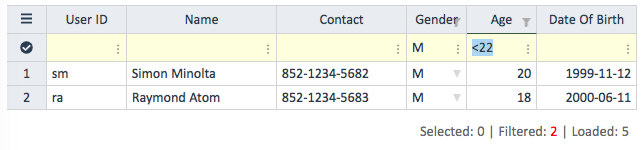
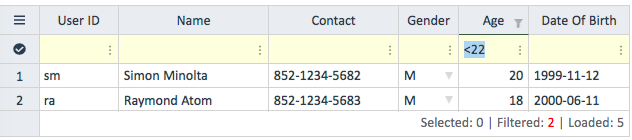
revise borders

Changed region(s): [[0.0, 0.0286, 1.0, 1.0], [0.0, 0.0857, 0.0601, 0.1714]]

diff --git a/VueExcelEditor.vue b/VueExcelEditor.vue
@@ -1,5 +1,5 @@
 <template>
-  <div>
+  <div style="display: inline-block; max-width: 100%">
     <div class="component-content">
       <div ref="tableContent"
            class="table-content"
@@ -22,9 +22,9 @@
             <!--col class="first-col">
             <col v-for="item in nFields" :key="`col-${item}`" style="width: 100px"-->
           </colgroup>
-          <thead class="thead-light text-center">
+          <thead class="center-text">
             <tr>
-              <th class="text-center first-col tl-setting"
+              <th class="center-text first-col tl-setting"
                   :class="{hide: noNumCol}"
                   :style="{left: calCellLeft + 'px', top: calCellTop + 'px'}"
                   @mousedown.left="settingClick">
@@ -49,7 +49,7 @@
               </th>
             </tr>
             <tr :class="{hide: !filterRow}">
-              <td class="text-center first-col tl-filter"
+              <td class="center-text first-col tl-filter"
                   :class="{hide: noNumCol}"
                   :style="{left: calCellLeft + 'px', top: calCellTop2 + 'px'}"
                   @click="selectAllClick">
@@ -69,7 +69,7 @@
                 :pos="rowPos"
                 :class="{select: typeof selected[pageTop + rowPos] !== 'undefined'}"
                 :style="rowStyle(record)">
-              <td class="text-center first-col"
+              <td class="center-text first-col"
                   :class="{hide: noNumCol}"
                   :style="{left: calCellLeft + 'px'}"
                   scope="row"
@@ -123,7 +123,7 @@
       </div>
 
       <!-- Footer -->
-      <div ref="footer" class="footer col col-12 text-center" :class="{hide: noFooter}">
+      <div ref="footer" class="footer center-text" :class="{hide: noFooter}">
         <span class="left-block"></span>
         <span v-show="!noPaging" style="position: absolute; left: 46px">
           Record {{ pageTop + 1 }} to {{ pageBottom }} of {{ table.length }}
@@ -643,6 +643,7 @@ export default {
           case 46:
             if (this.inputBoxShow) {
               this.inputBoxChanged = true
+              setTimeout(this.calAutocompleteList)
               return
             }
             if (this.currentField.readonly) return
@@ -1288,7 +1289,7 @@ input:focus, input:active:focus, input.active:focus {
   padding: 0;
   z-index: 0;
   border: 2px solid rgb(108, 143, 108);
-  /* transition: all 0.04s linear; */
+  transition: all 0.08s linear;
 }
 .no-transition {
   transition: none !important;
@@ -1340,9 +1341,6 @@ input:focus, input:active:focus, input.active:focus {
   background: white;
   font-size: 0.88rem;
 }
-.table-content :focus {
-  outline: none;
-}
 .component-content {
   display: flex;
   flex-flow: column;
@@ -1354,10 +1352,14 @@ input:focus, input:active:focus, input.active:focus {
   overflow: hidden;
   border-bottom: 1px solid lightgray;
 }
+.center-text {
+  text-align: center;
+}
 .table-content {
   flex: 1 1 auto;
   font-size: 1rem;
   border: 1px solid lightgray;
+  border-bottom: 0;
   text-shadow: 0.3px 0.3px 1px #ccc;
   overflow: scroll;
   -webkit-touch-callout: none;
@@ -1367,6 +1369,9 @@ input:focus, input:active:focus, input.active:focus {
   -ms-user-select: none;
   user-select: none;
   position: relative;
+}
+.table-content :focus {
+  outline: none;
 }
 .table-content::-webkit-scrollbar {
   background: white;
@@ -1418,43 +1423,6 @@ input:focus, input:active:focus, input.active:focus {
 .systable th:not(:last-child) {
   border-right: 1px solid lightgray;
 }
-.systable td {
-  border-bottom: 1px solid lightgray;
-}
-.systable td:not(:last-child) {
-  border-right: 1px solid lightgray;
-}
-.systable tbody tr:last-child td {
-  border-bottom: 0;
-} 
-.systable thead th, .systable thead td {
-  padding: 0.4rem 0.3rem;
-  background-color: #e9ecef;
-  font-weight: 400;
-  height: 29px;
-  cursor: s-resize;
-  position: sticky;
-  top: 0;
-  z-index: 1;
-}
-.systable thead td.column-filter {
-  text-align: left;
-  background-color: lightyellow;
-  white-space: nowrap;
-  overflow-x: hidden;
-  text-overflow: ellipsis;
-  border-top: 1px solid lightgray;
-  border-bottom: 1px solid lightgray;
-}
-.systable th.focus {
-  border-bottom: 1px solid rgb(61, 85, 61) !important;
-}
-.systable tbody td.select {
-  background-image: url('./assets/down.png');
-  background-repeat: no-repeat;
-  background-size: 8px 8px;
-  background-position: right 5px top 8px;
-}
 .systable tbody td {
   cursor: cell;
   white-space: nowrap;
@@ -1467,6 +1435,42 @@ input:focus, input:active:focus, input.active:focus {
   background-repeat: no-repeat;
   background-size: 8px 8px;
   background-position: right 0px top 0px;
+}
+.systable tbody tr:not(:last-child) td {
+  border-bottom: 1px solid lightgray;
+}
+.systable td:not(:last-child) {
+  border-right: 1px solid lightgray;
+}
+.systable thead th, .systable thead td {
+  padding: 0.4rem 0.3rem;
+  background-color: #e9ecef;
+  font-weight: 400;
+  height: 29px;
+  cursor: s-resize;
+  position: sticky;
+  top: 0;
+  z-index: 1;
+  border-bottom: 1px solid lightgray;
+}
+.systable thead td.column-filter {
+  text-align: left;
+  background-color: lightyellow;
+  white-space: nowrap;
+  overflow-x: hidden;
+  text-overflow: ellipsis;
+}
+.systable th.focus {
+  border-bottom: 1px solid rgb(61, 85, 61) !important;
+}
+.systable td.first-col.focus {
+  border-right: 1px solid rgb(61, 85, 61) !important;
+}
+.systable tbody td.select {
+  background-image: url('./assets/down.png');
+  background-repeat: no-repeat;
+  background-size: 8px 8px;
+  background-position: right 5px top 8px;
 }
 .systable .first-col {
   background:#e9ecef;
@@ -1489,12 +1493,6 @@ input:focus, input:active:focus, input.active:focus {
   cursor: pointer !important;
   z-index: 10;
 }
-.systable thead td.first-col {
-  border-top: 1px solid lightgray;
-}
-.systable td.first-col.focus {
-  border-right: 1px solid rgb(61, 85, 61) !important;
-}
 .footer {
   z-index: 10;
   padding: 0;
@@ -1512,10 +1510,10 @@ input:focus, input:active:focus, input.active:focus {
   position: absolute;
   left: 0;
   height: 25px;
-  width: 40px;
+  width: 41px;
   background-color: #e9ecef;
-  border: 1px solid lightgray;
-  border-top: 0;
+  border-left: 1px solid lightgray;
+  border-right: 1px solid lightgray;
 }
 .footer a {
   cursor: pointer;

diff --git a/VueExcelFilter.vue b/VueExcelFilter.vue
@@ -47,7 +47,7 @@ export default {
       return ''
     },
     filterRowTop () {
-      if (this.cell) return {top: (this.cell.offsetTop - 1) + 'px'}
+      if (this.cell) return {top: this.cell.offsetTop + 'px'}
       else return {}
     },
   },
